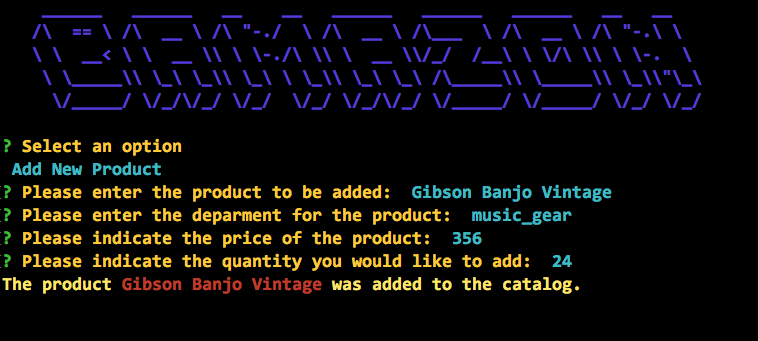
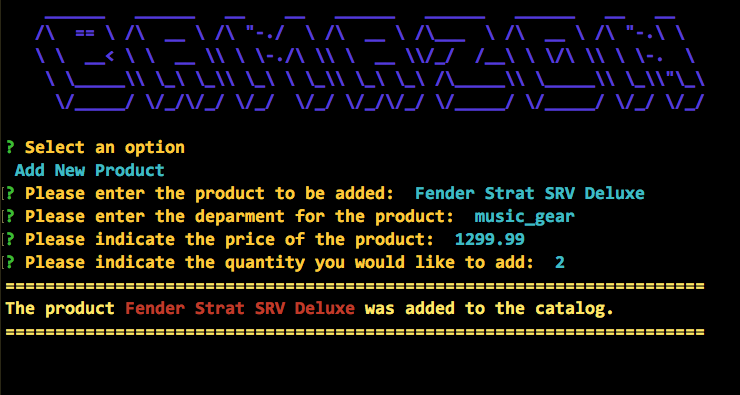
screen shots

Changed region(s): [[0.0, 0.3519, 0.9635, 0.8798], [0.0311, 0.0293, 0.9635, 0.3226]]

diff --git a/bamazonManager.js b/bamazonManager.js
@@ -209,7 +209,9 @@ function  addNewProduct(){
             stock_quantity: response.stock_quantity
         }, function(err){
             if (err) throw err;
+            console.log("======================================================================");
             console.log("The product " + chalk.red(response.product_name) + " was added to the catalog.");
+            console.log("======================================================================\n");
             quit();
         }
     
